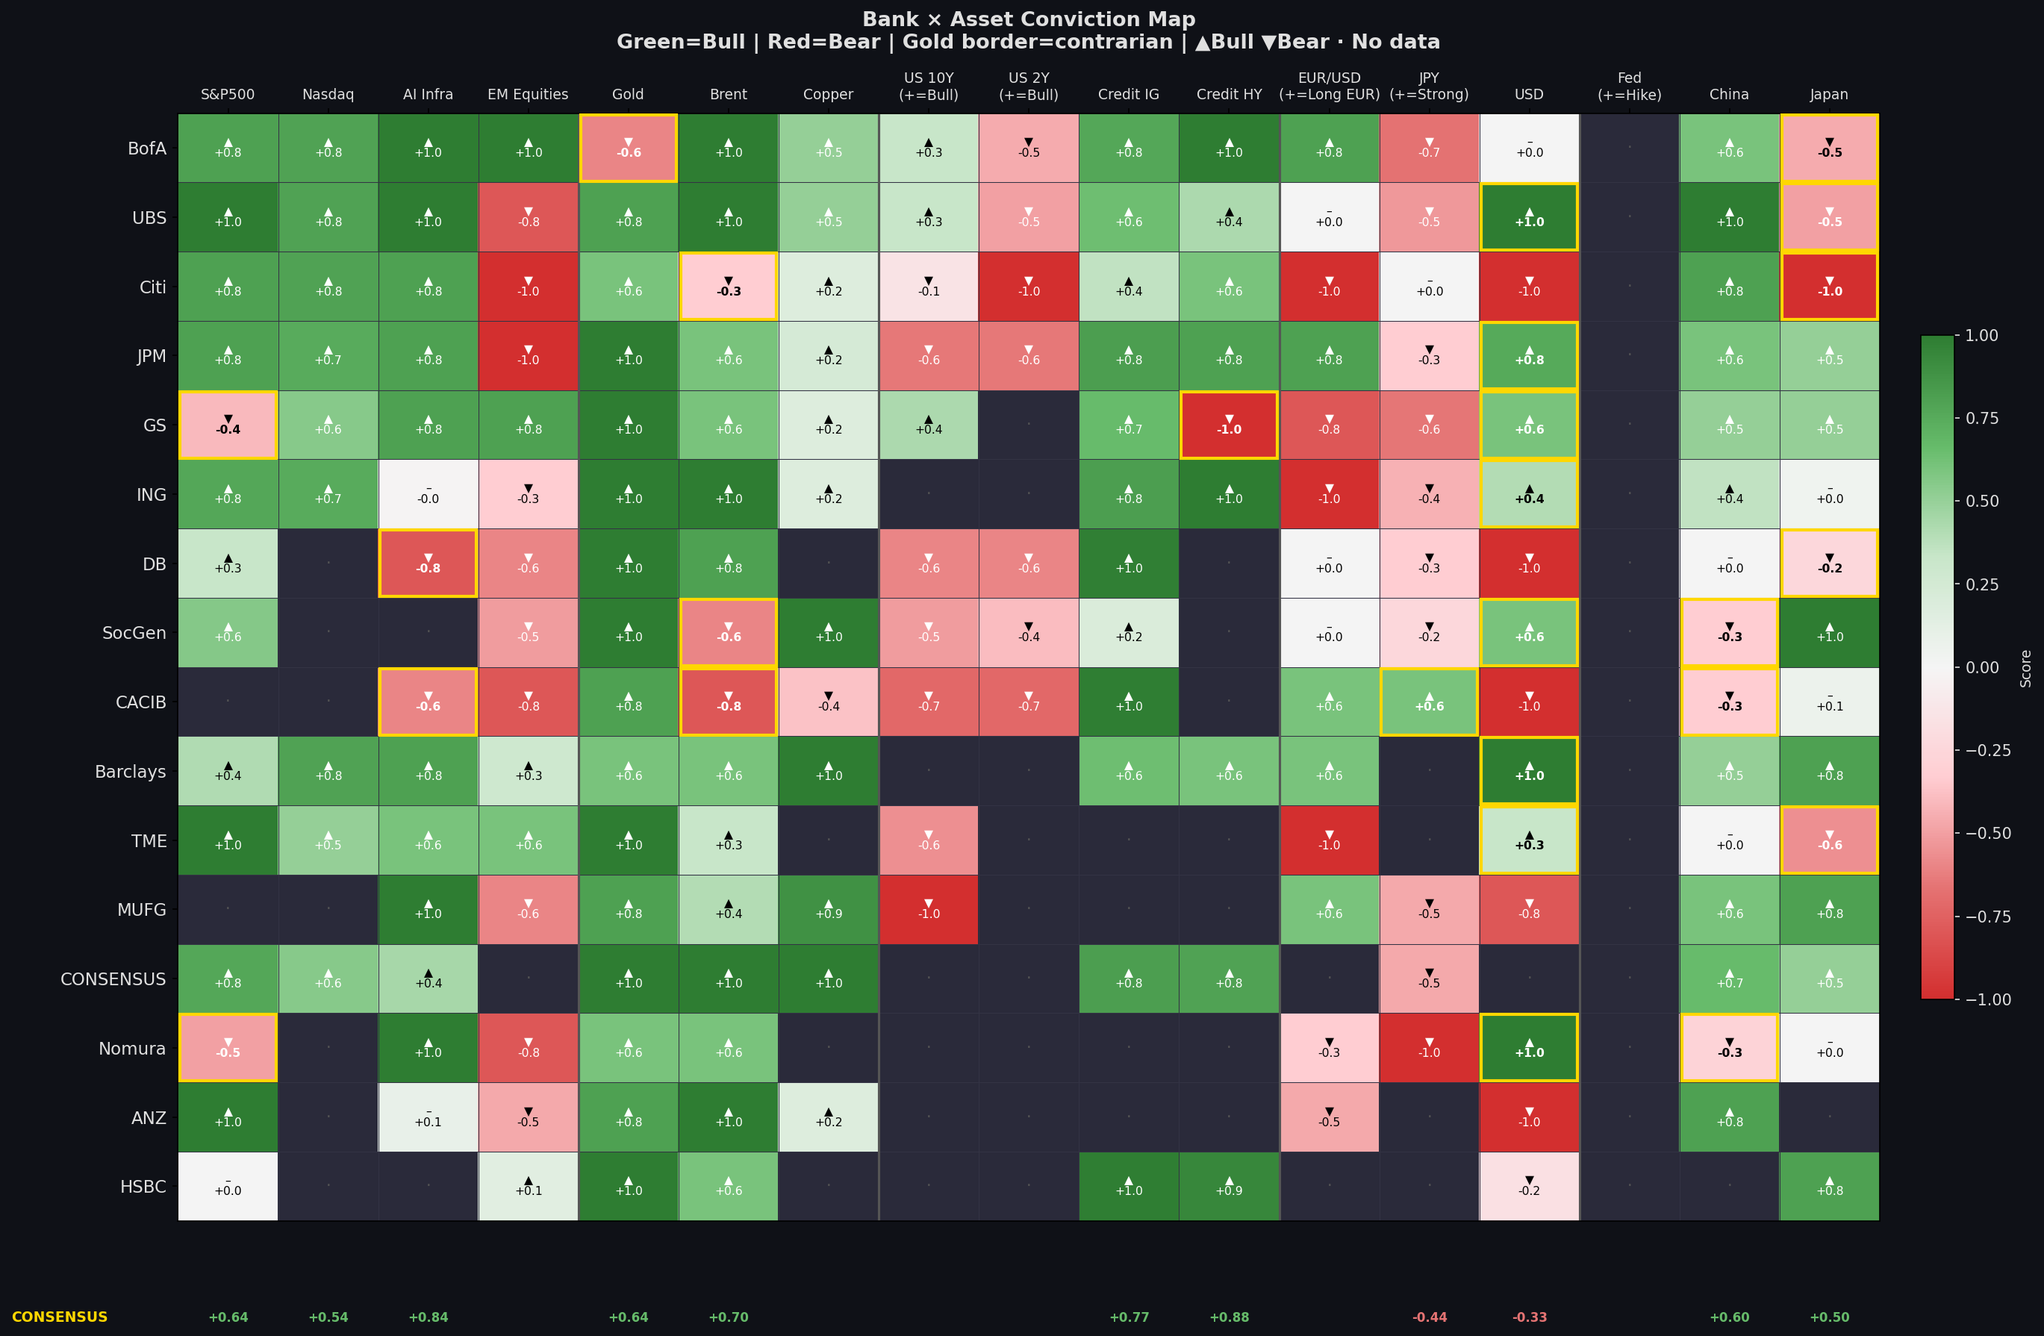
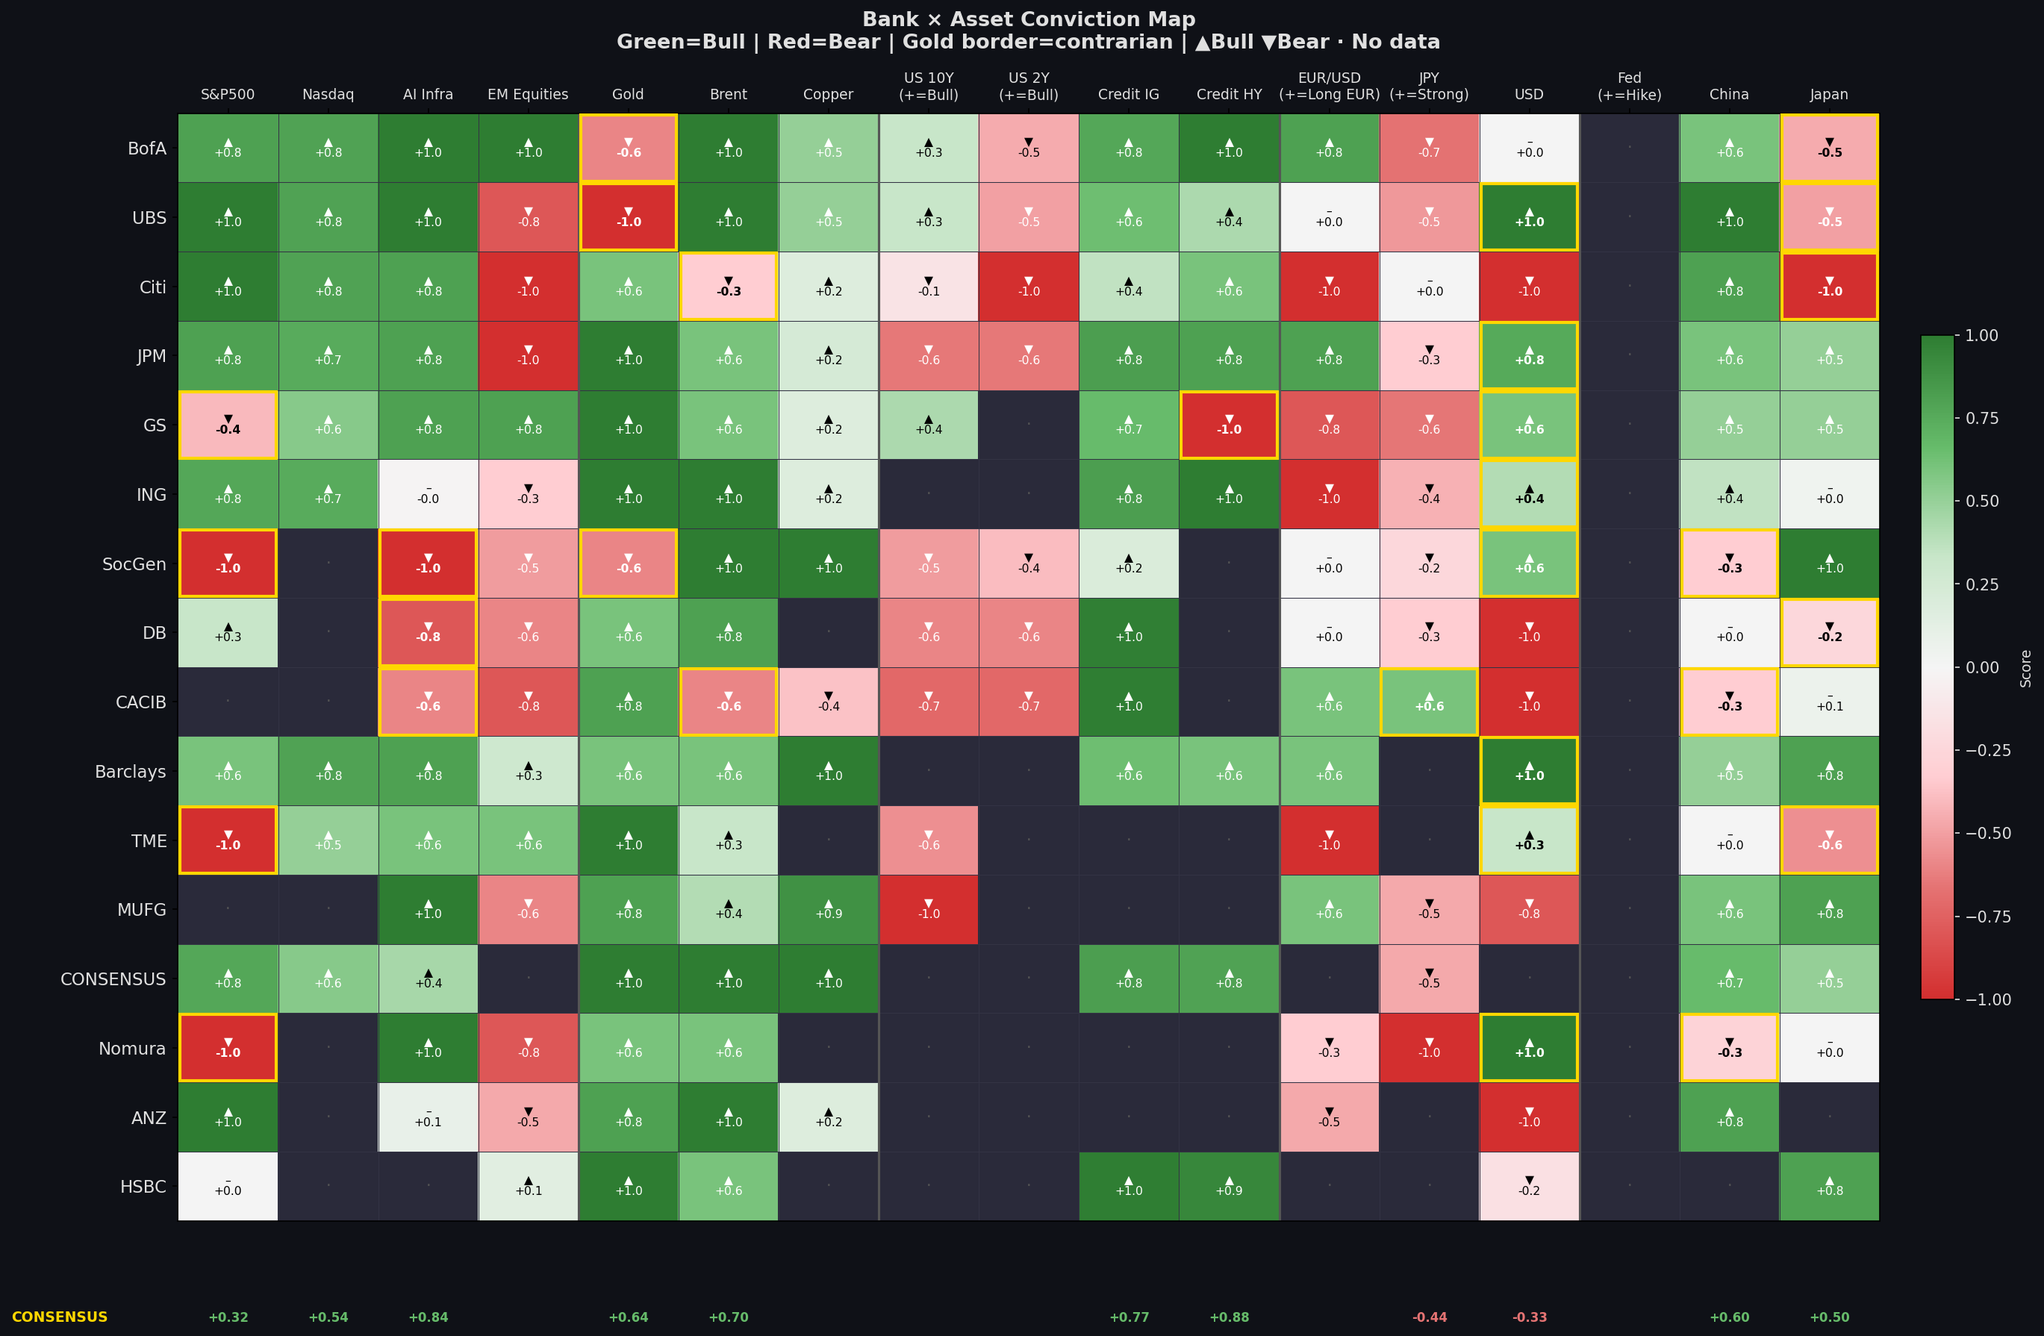
Daily update — 2026-04-21

diff --git a/index.html b/index.html
@@ -389,7 +389,7 @@
       </div>
       <div class="header-meta">
         <span>Apr 20, 2026</span>
-        <span>13 Assets · 26 Banks · 2,356 Calls · 58 Dates</span>
+        <span>13 Assets · 27 Banks · 2,530 Calls · 58 Dates</span>
       </div>
     </div>
     <div class="tab-bar">
@@ -447,7 +447,7 @@
             </div>
           </div>
           <p style="font-size:13px;color:var(--fg-muted);line-height:1.65;">
-            Of 13 canonical assets tracked across 26 banks and 2,356 directional calls over 58 trading dates (2026-02-03 – 2026-04-20), the consensus has turned overwhelmingly bearish. 11 assets remain positive — AI Infra, Brent, China, Credit HY, Credit IG, Gold, India, Japan, Korea, Nasdaq, S&P500. 0 assets sit below −0.50, and 1 — JPY (+=Strong JPY) — have reached unanimous bearishness with zero bullish voices remaining.
+            Of 13 canonical assets tracked across 27 banks and 2,530 directional calls over 58 trading dates (2026-02-03 – 2026-04-20), the consensus has turned overwhelmingly bearish. 11 assets remain positive — AI Infra, Brent, China, Credit HY, Credit IG, Gold, India, Japan, Korea, Nasdaq, S&P500. 0 assets sit below −0.50, and 1 — JPY (+=Strong JPY) — have reached unanimous bearishness with zero bullish voices remaining.
           </p>
         </section>
 
@@ -456,7 +456,7 @@
           <div id="todays-changes" style="scroll-margin-top:72px;"></div>
           <h2 class="section-heading">1b. Today's Changes (2026-04-19 → 2026-04-20)</h2>
           <div class="signal-card" style="border-color:var(--bull);"><div class="signal-body"><div class="signal-header"><span class="signal-asset">China</span><span style="font-family:'JetBrains Mono',monospace;font-size:10px;font-weight:700;color:var(--bg);background:var(--bull);padding:2px 8px;">BEAR → BULL</span><span class="mono" style="font-size:12px;color:var(--bull);font-weight:700;">-0.17 → +0.60</span></div><p class="signal-note">New calls: ANZ (bull), ANZ (bull), ANZ (bull), ANZ (bull), BofA (bull)</p></div></div>
-          <div class="table-wrap" style="margin-top:16px;"><table><thead><tr><th>Asset</th><th>Previous</th><th>Current</th><th>Change</th><th>B/Be</th><th>New Calls</th></tr></thead><tbody><tr><td style="font-weight:600;">USD</td><td class="mono" style="color:var(--fg-muted);">-0.75</td><td class="mono" style="color:var(--bull);font-weight:700;">-0.33</td><td class="mono" style="color:var(--bull);font-weight:700;">+0.42</td><td class="mono-sm">1B/2Be</td><td style="font-size:11px;color:var(--fg-muted);">ANZ (bear), Barclays (bull), Mizuho (bear)</td></tr><tr><td style="font-weight:600;">S&P500</td><td class="mono" style="color:var(--fg-muted);">+0.30</td><td class="mono" style="color:var(--bull);font-weight:700;">+0.64</td><td class="mono" style="color:var(--bull);font-weight:700;">+0.34</td><td class="mono-sm">7B/1Be</td><td style="font-size:11px;color:var(--fg-muted);">BofA (bull), CONSENSUS (bull), GS (bear), GS (bull) +9 more</td></tr><tr><td style="font-weight:600;">China</td><td class="mono" style="color:var(--fg-muted);">-0.17</td><td class="mono" style="color:var(--bull);font-weight:700;">+0.60</td><td class="mono" style="color:var(--bull);font-weight:700;">+0.76</td><td class="mono-sm">6B/0Be</td><td style="font-size:11px;color:var(--fg-muted);">ANZ (bull), ANZ (bull), ANZ (bull), ANZ (bull) +8 more</td></tr><tr><td style="font-weight:600;">Brent</td><td class="mono" style="color:var(--fg-muted);">+0.33</td><td class="mono" style="color:var(--bull);font-weight:700;">+0.70</td><td class="mono" style="color:var(--bull);font-weight:700;">+0.37</td><td class="mono-sm">8B/0Be</td><td style="font-size:11px;color:var(--fg-muted);">BofA (bull), CONSENSUS (bull), DB (bull), DB (bull) +9 more</td></tr></tbody></table></div>
+          <div class="table-wrap" style="margin-top:16px;"><table><thead><tr><th>Asset</th><th>Previous</th><th>Current</th><th>Change</th><th>B/Be</th><th>New Calls</th></tr></thead><tbody><tr><td style="font-weight:600;">USD</td><td class="mono" style="color:var(--fg-muted);">-0.75</td><td class="mono" style="color:var(--bull);font-weight:700;">-0.33</td><td class="mono" style="color:var(--bull);font-weight:700;">+0.42</td><td class="mono-sm">1B/2Be</td><td style="font-size:11px;color:var(--fg-muted);">ANZ (bear), Barclays (bull), Mizuho (bear)</td></tr><tr><td style="font-weight:600;">China</td><td class="mono" style="color:var(--fg-muted);">-0.17</td><td class="mono" style="color:var(--bull);font-weight:700;">+0.60</td><td class="mono" style="color:var(--bull);font-weight:700;">+0.76</td><td class="mono-sm">6B/0Be</td><td style="font-size:11px;color:var(--fg-muted);">ANZ (bull), ANZ (bull), ANZ (bull), ANZ (bull) +8 more</td></tr><tr><td style="font-weight:600;">Brent</td><td class="mono" style="color:var(--fg-muted);">+0.33</td><td class="mono" style="color:var(--bull);font-weight:700;">+0.70</td><td class="mono" style="color:var(--bull);font-weight:700;">+0.37</td><td class="mono-sm">8B/0Be</td><td style="font-size:11px;color:var(--fg-muted);">BofA (bull), CONSENSUS (bull), DB (bull), DB (bull) +9 more</td></tr></tbody></table></div>
         </section>
 
         <!-- 2. Regime Narrative -->
@@ -481,7 +481,7 @@
               </div>
               <div class="act-body">
                 <p class="act-title">Bullish Consensus</p>
-                <p class="act-text">Average consensus moved from +0.46 to -0.22. 0 assets positive, 1 negative at phase end. Key moves: S&P500 -0.38.</p>
+                <p class="act-text">Average consensus moved from +0.40 to -0.22. 0 assets positive, 1 negative at phase end. Key moves: S&P500 -0.26.</p>
               </div>
             </div>
             <div class="act-row bull-border">
@@ -491,7 +491,7 @@
               </div>
               <div class="act-body">
                 <p class="act-title">Bullish Consensus</p>
-                <p class="act-text">Average consensus moved from +0.34 to -0.03. 2 assets positive, 3 negative at phase end. Key moves: USD -1.21, Brent -0.83, S&P500 +0.17, Japan +0.58.</p>
+                <p class="act-text">Average consensus moved from +0.32 to -0.03. 2 assets positive, 3 negative at phase end. Key moves: USD -1.21, Brent -0.54, S&P500 +0.17, Japan +0.58.</p>
               </div>
             </div>
             <div class="act-row bull-border">
@@ -501,7 +501,7 @@
               </div>
               <div class="act-body">
                 <p class="act-title">Bullish Consensus</p>
-                <p class="act-text">Average consensus moved from +0.67 to +0.50. 11 assets positive, 2 negative at phase end.</p>
+                <p class="act-text">Average consensus moved from +0.67 to +0.48. 11 assets positive, 2 negative at phase end. Key moves: S&P500 -0.35.</p>
               </div>
             </div>
           </div>
@@ -542,7 +542,7 @@
             </table>
           </div>
           <p style="font-family:'JetBrains Mono',monospace;font-size:11px;color:var(--fg-muted);margin-top:12px;">
-            JPY (+=Strong JPY) suffered the largest reversal at -1.31 (from +0.87 to -0.44). 2 of 8 movers are complete reversals; 6 weakened but not reversed.
+            JPY (+=Strong JPY) suffered the largest reversal at -1.31 (from +0.87 to -0.44). 2 of 9 movers are complete reversals; 7 weakened but not reversed.
           </p>
         </section>
 
@@ -564,21 +564,21 @@
               <div class="late-tags">
                 <span class="late-tag">Nomura</span>
                 <span class="late-tag">SocGen</span>
+                <span class="late-tag">Jefferies</span>
                 <span class="late-tag">MUFG</span>
                 <span class="late-tag">MS</span>
-                <span class="late-tag">Jefferies</span>
-                <span class="late-tag">TSLombard</span>
+                <span class="late-tag">Mizuho</span>
               </div>
             </div>
           </div>
           <div style="margin-top:16px;">
             <div class="panel" style="width:100%;">
               <p class="panel-label" style="color:#4FC3F7;">Recent Conviction Movers — Most Active Flips (Last 14 Days)</p>
-              <div class="bank-row"><span class="bank-name" style="color:#4FC3F7;">GS</span><span class="bank-note">42 flips in 14d (116 calls). Recent: AI Infra BEAR→BULL, AI Infra BULL→BEAR, AI Infra BEAR→BULL.</span></div>
-              <div class="bank-row"><span class="bank-name" style="color:#4FC3F7;">JPM</span><span class="bank-note">39 flips in 14d (93 calls). Recent: China BULL→BEAR, China BEAR→BULL, China BULL→NEUTRAL.</span></div>
-              <div class="bank-row"><span class="bank-name" style="color:#4FC3F7;">BofA</span><span class="bank-note">34 flips in 14d (68 calls). Recent: AI Infra BULL→NEUTRAL, AI Infra NEUTRAL→BULL, AI Infra BULL→NEUTRAL.</span></div>
+              <div class="bank-row"><span class="bank-name" style="color:#4FC3F7;">GS</span><span class="bank-note">50 flips in 14d (130 calls). Recent: AI Infra BEAR→BULL, AI Infra BULL→BEAR, AI Infra BEAR→BULL.</span></div>
+              <div class="bank-row"><span class="bank-name" style="color:#4FC3F7;">JPM</span><span class="bank-note">41 flips in 14d (103 calls). Recent: China BULL→BEAR, China BEAR→BULL, China BULL→NEUTRAL.</span></div>
+              <div class="bank-row"><span class="bank-name" style="color:#4FC3F7;">BofA</span><span class="bank-note">41 flips in 14d (76 calls). Recent: AI Infra BULL→NEUTRAL, AI Infra NEUTRAL→BULL, AI Infra BULL→NEUTRAL.</span></div>
               <div class="bank-row"><span class="bank-name" style="color:#4FC3F7;">MUFG</span><span class="bank-note">20 flips in 14d (41 calls). Recent: Brent BEAR→BULL, Brent BULL→BEAR, Brent BEAR→BULL.</span></div>
-              <div class="bank-row"><span class="bank-name" style="color:#4FC3F7;">DB</span><span class="bank-note">17 flips in 14d (39 calls). Recent: Brent BULL→BEAR, Brent BEAR→BULL, Brent BULL→BEAR.</span></div>
+              <div class="bank-row"><span class="bank-name" style="color:#4FC3F7;">ING</span><span class="bank-note">18 flips in 14d (125 calls). Recent: Brent BULL→BEAR, Brent BEAR→BULL, Brent BULL→BEAR.</span></div>
             </div>
           </div>
         </section>
@@ -616,7 +616,7 @@
           <div class="dq-box">
             <p class="dq-label">Data Quality &amp; Methodology</p>
             <div class="dq-grid">
-              <div><span class="dq-key">Source: </span>bank_conviction.csv — 2,356 directional calls from 26 banks</div>
+              <div><span class="dq-key">Source: </span>bank_conviction.csv — 2,530 directional calls from 27 banks</div>
               <div><span class="dq-key">Consensus: </span>consensus_timeseries.csv — 341 rows</div>
               <div><span class="dq-key">Method: </span>Per-date average of each bank's latest score (14-day lookback, min 2 banks)</div>
               <div><span class="dq-key">Coverage: </span>58 dates × 13 assets</div>
@@ -638,20 +638,20 @@
     <div class="chart-section">
       <p class="chart-title">Consensus Shift Tracker — 30-Day Zoom</p>
       <p class="chart-subtitle">Mar 21 – Apr 20, 2026 · 8 Key Assets</p>
-      <img class="chart-img" src="img/chart_30d_zoom.png?v=1776810871" alt="30-Day Zoom chart" />
-      <p class="chart-caption">Tracks the consensus score trajectory for 8 key assets over the final 30 trading days. 4 regime phases detected: Bullish Consensus (2026-02-20 – 2026-03-22), Bullish Consensus (2026-03-23 – 2026-03-29), Bullish Consensus (2026-03-30 – 2026-04-03), Bullish Consensus (2026-04-05 – 2026-04-20). JPY (+=Strong JPY) ended at -0.44, the sharpest decline. Credit HY at +0.88 is the strongest positive. USD at -0.33 is closest to the inflection point.</p>
+      <img class="chart-img" src="img/chart_30d_zoom.png?v=1776811490" alt="30-Day Zoom chart" />
+      <p class="chart-caption">Tracks the consensus score trajectory for 8 key assets over the final 30 trading days. 4 regime phases detected: Bullish Consensus (2026-02-20 – 2026-03-22), Bullish Consensus (2026-03-23 – 2026-03-29), Bullish Consensus (2026-03-30 – 2026-04-03), Bullish Consensus (2026-04-05 – 2026-04-20). JPY (+=Strong JPY) ended at -0.44, the sharpest decline. Credit HY at +0.88 is the strongest positive. S&P500 at +0.32 is closest to the inflection point.</p>
     </div>
     <div class="chart-section">
       <p class="chart-title">Bank Leadership by Macro Theme</p>
       <p class="chart-subtitle">★ = first to call/flip · ✓ = followed later · dates = first publication</p>
-      <img class="chart-img" src="img/chart_bank_leadership.png?v=1776810871" alt="Bank Leadership chart" />
-      <p class="chart-caption">Maps which banks led versus followed across 44 macro themes. Gold cells indicate leading calls (★); blue cells indicate supporting calls (✓); dark cells indicate absence. JPM, GS, BofA show the densest leading coverage. Late arrivals — Nomura, SocGen, MUFG, MS — are concentrated in the bottom rows.</p>
+      <img class="chart-img" src="img/chart_bank_leadership.png?v=1776811490" alt="Bank Leadership chart" />
+      <p class="chart-caption">Maps which banks led versus followed across 44 macro themes. Gold cells indicate leading calls (★); blue cells indicate supporting calls (✓); dark cells indicate absence. JPM, GS, BofA show the densest leading coverage. Late arrivals — Nomura, SocGen, Jefferies, MUFG — are concentrated in the bottom rows.</p>
     </div>
     <div class="chart-section">
       <p class="chart-title">Bank × Asset Conviction Map</p>
       <p class="chart-subtitle">Green = Bull · Red = Bear · Gold border = contrarian · ▲Bull ▼Bear · No data = dark</p>
-      <img class="chart-img" src="img/chart_bank_asset_heatmap.png?v=1776810871" alt="Bank Asset Conviction Heatmap" />
-      <p class="chart-caption">Shows each bank's current directional conviction score (−1.0 to +1.0) for every tracked asset. Gold borders highlight contrarian positions — banks holding the minority view against consensus. The bottom CONSENSUS row summarises the aggregate score per asset. S&P500: +0.64. Nasdaq: +0.54. USD: -0.33. Credit HY at +0.88 is the strongest positive. JPY (+=Strong JPY) is unanimous bearish.</p>
+      <img class="chart-img" src="img/chart_bank_asset_heatmap.png?v=1776811490" alt="Bank Asset Conviction Heatmap" />
+      <p class="chart-caption">Shows each bank's current directional conviction score (−1.0 to +1.0) for every tracked asset. Gold borders highlight contrarian positions — banks holding the minority view against consensus. The bottom CONSENSUS row summarises the aggregate score per asset. S&P500: +0.32. Nasdaq: +0.54. USD: -0.33. Credit HY at +0.88 is the strongest positive. JPY (+=Strong JPY) is unanimous bearish.</p>
     </div>
   </div>
 </div>
@@ -746,7 +746,7 @@
   <div class="container">
     <div class="footer-inner">
       <span>Consensus Shift Tracker — Fade Report · Apr 20, 2026</span>
-      <span>Coverage: Mar 21 – Apr 20, 2026 · 58 trading dates · 13 assets · 26 banks</span>
+      <span>Coverage: Mar 21 – Apr 20, 2026 · 58 trading dates · 13 assets · 27 banks</span>
     </div>
   </div>
 </footer>
@@ -791,13 +791,6 @@ const CONSENSUS = [
     "signal": ""
   },
   {
-    "asset": "S&P500",
-    "score": 0.64,
-    "bull": 7,
-    "bear": 1,
-    "signal": ""
-  },
-  {
     "asset": "India",
     "score": 0.62,
     "bull": 3,
@@ -831,6 +824,13 @@ const CONSENSUS = [
     "bull": 3,
     "bear": 0,
     "signal": "Unanimous bullish (3 banks)"
+  },
+  {
+    "asset": "S&P500",
+    "score": 0.32,
+    "bull": 7,
+    "bear": 3,
+    "signal": "Split — high disagreement"
   },
   {
     "asset": "USD",
@@ -871,6 +871,14 @@ const MOVERS = [
     "peakDate": "2026-03-30",
     "current": 0.18,
     "drop": -0.81,
+    "status": "Weakened"
+  },
+  {
+    "asset": "S&P500",
+    "peak": 0.9,
+    "peakDate": "2026-03-09",
+    "current": 0.32,
+    "drop": -0.58,
     "status": "Weakened"
   },
   {
@@ -926,17 +934,17 @@ const FADE_SIGNALS = [
   },
   {
     "n": 2,
-    "asset": "Gold",
-    "score": 0.64,
-    "bb": "5B vs 1Be",
+    "asset": "S&P500",
+    "score": 0.32,
+    "bb": "7B vs 3Be",
     "type": "disagreement",
-    "note": "High disagreement — 1 banks going against the prevailing direction. Watch for the minority to either capitulate or convert others."
+    "note": "High disagreement — 3 banks going against the prevailing direction. Watch for the minority to either capitulate or convert others."
   },
   {
     "n": 3,
-    "asset": "S&P500",
+    "asset": "Gold",
     "score": 0.64,
-    "bb": "7B vs 1Be",
+    "bb": "5B vs 1Be",
     "type": "disagreement",
     "note": "High disagreement — 1 banks going against the prevailing direction. Watch for the minority to either capitulate or convert others."
   },
@@ -951,6 +959,12 @@ const FADE_SIGNALS = [
 ];
 
 const INFLECTION = [
+  {
+    "asset": "S&P500",
+    "score": 0.32,
+    "bb": "7B / 3Be",
+    "note": "3 bears hold the minority — watch for capitulation or conversion"
+  },
   {
     "asset": "USD",
     "score": -0.33,
@@ -974,16 +988,14 @@ const INFLECTION = [
     "score": 0.54,
     "bb": "3B / 0Be",
     "note": "Barely positive (3B/0Be) — vulnerable to a single bear call"
-  },
-  {
-    "asset": "Korea",
-    "score": 0.56,
-    "bb": "4B / 0Be",
-    "note": "Barely positive (4B/0Be) — vulnerable to a single bear call"
   }
 ];
 
 const CATALYSTS = [
+  {
+    "trigger": "US earnings and ISM data",
+    "target": "S&P500 direction"
+  },
   {
     "trigger": "DXY technicals and trade balance",
     "target": "USD direction"
@@ -991,10 +1003,6 @@ const CATALYSTS = [
   {
     "trigger": "BoJ yield curve control and intervention risk",
     "target": "JPY (+=Strong JPY) direction"
-  },
-  {
-    "trigger": "Japanese corporate earnings",
-    "target": "Japan direction"
   },
   {
     "trigger": "Real yield and inflation data",
